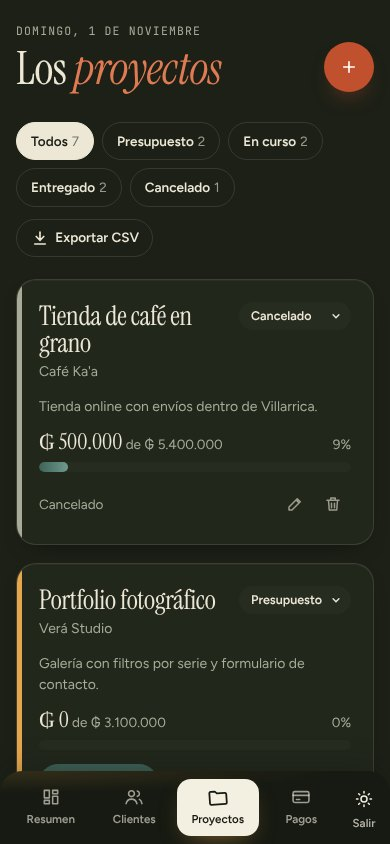
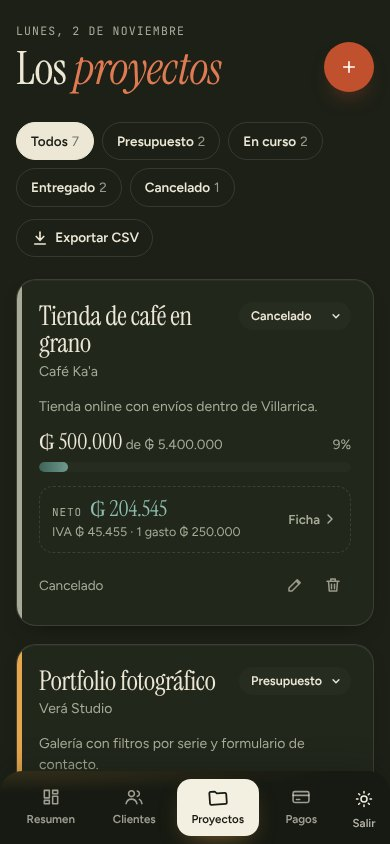
README y guía: IVA, gastos, facturas, pendientes, historial y capturas nuevas
Claude-Session: https://claude.ai/code/session_01D6wwq4ndBdsuxuySeTTfX8

diff --git a/README.md b/README.md
@@ -9,12 +9,16 @@ API REST para gestionar los clientes, proyectos y pagos de Pyahu Labs, con un pa
 - **Usuarios:** registro e inicio de sesión. Las contraseñas se guardan con bcrypt y el login devuelve un token JWT que dura 8 horas. El registro está **cerrado**: solo se puede crear el primer usuario (ver [Registro cerrado](#registro-cerrado)).
 - **Clientes:** CRUD completo, con RUC/CI y datos de contacto.
 - **Proyectos:** estado (presupuesto, en curso, entregado, cancelado), fecha de entrega opcional, edición completa y saldo pendiente calculado.
-- **Pagos:** registrar, editar y borrar, con transacción y bloqueo de fila, para no cobrar nunca más que el saldo del proyecto.
-- **Resumen:** total cobrado, total pendiente, lo que queda en presupuestos y lo cobrado mes por mes.
+- **IVA, gastos y neto:** cada proyecto tiene su tasa de IVA (10 %, 5 % o sin IVA, incluida en el monto, como se cotiza en Paraguay) y sus gastos (dominios, hosting, licencias, trabajo tercerizado). La API calcula el neto: lo que le queda al estudio.
+- **Pagos:** registrar, editar y borrar, con transacción y bloqueo de fila, para no cobrar nunca más que el saldo del proyecto. Cada pago marca si ya se le dio factura al cliente, con el número.
+- **Pendientes e historial:** una lista de lo que le falta a cada proyecto, para tildar, y un historial con notas escritas a mano. Los cambios de estado se anotan solos, con el motivo (por ejemplo, por qué se canceló).
+- **Resumen:** total cobrado, total pendiente, lo que queda en presupuestos, el neto de lo cobrado (sin IVA ni gastos), lo cobrado sin factura y lo cobrado mes por mes.
 - **Seguridad:** límite de intentos de login (429 después de 8 fallidos en 15 minutos) y headers de seguridad con helmet.
 - **Validación:** cada campo se revisa antes de llegar a la base (tipos, formatos, largos y fechas reales).
-- **Panel web:** HTML, CSS y JavaScript sin librerías, con la identidad visual de Pyahu Labs y animaciones. Incluye un gráfico de cobros por mes, las próximas entregas, exportar a CSV (se abre en Excel), modo oscuro y se puede instalar como app en el celu.
-- **Tests:** 16 tests automáticos con `npm test`, sobre una base aparte.
+- **Panel web:** HTML, CSS y JavaScript sin librerías, con la identidad visual de Pyahu Labs y animaciones. Cada proyecto tiene su **ficha** con cuentas, pagos, gastos, pendientes e historial, y un botón para pedir el saldo por WhatsApp. Incluye un gráfico de cobros por mes, las próximas entregas, "Para hacer", cuánto debe cada cliente, exportar a CSV (se abre en Excel), modo oscuro y se puede instalar como app en el celu.
+- **Tests:** 18 tests automáticos con `npm test`, sobre una base aparte.
+
+![Ficha de un proyecto: cuentas, pagos con factura, gastos, pendientes e historial](docs/capturas/ficha.jpg)
 
 ## Tecnologías
 
@@ -55,6 +59,7 @@ pyahu-api/
     ├── server.js           # arranca el servidor
     ├── app.js              # middlewares, rutas y manejo de errores
     ├── db.js               # pool de conexiones a MySQL
+    ├── cuentas.js          # IVA incluido y neto de cada proyecto
     ├── middleware/
     │   ├── auth.js         # exige un token válido
     │   ├── limiteIntentos.js  # frena a quien prueba contraseñas
@@ -64,6 +69,9 @@ pyahu-api/
         ├── clientes.js
         ├── proyectos.js
         ├── pagos.js
+        ├── gastos.js
+        ├── tareas.js       # pendientes de cada proyecto
+        ├── notas.js        # historial de cada proyecto
         └── resumen.js
 ```
 
@@ -124,7 +132,19 @@ El panel se usa igual que en la PC. Lo que **no** vas a poder hacer así es inst
 npm test
 ```
 
-Corre 16 tests (validaciones, login, registro cerrado, clientes, proyectos, pagos y resumen) contra una base **aparte**, `pyahu_test`, que se borra y se vuelve a crear en cada corrida. Tus datos de la base `pyahu` no se tocan. Usa el mismo usuario de MySQL del `.env`.
+Corre 18 tests (validaciones, login, registro cerrado, clientes, proyectos, pagos, IVA y gastos, facturas, pendientes, historial y resumen) contra una base **aparte**, `pyahu_test`, que se borra y se vuelve a crear en cada corrida. Tus datos de la base `pyahu` no se tocan. Usa el mismo usuario de MySQL del `.env`.
+
+### IVA y neto
+
+En Paraguay los precios se dan con el IVA **incluido**, así que `monto_total` es lo que paga el cliente. Con IVA 10 %, el IVA es el total dividido 11: de ₲ 1.100.000, ₲ 100.000 son IVA. El neto de un proyecto es:
+
+```
+neto = monto_total − IVA incluido − gastos
+```
+
+Si el proyecto se cancela, ya no se va a cobrar el total, así que el neto se calcula sobre lo que efectivamente se cobró. En el resumen, `neto_cobrado` es lo cobrado menos su IVA y menos todos los gastos: la plata que de verdad le queda al estudio.
+
+> Es una cuenta para tener una idea clara de cuánto ganás. Para la liquidación del IVA ante la DNIT, seguí lo que te indique tu contador.
 
 ## Endpoints
 
@@ -138,17 +158,27 @@ Todas las rutas, salvo `/auth` y `/estado`, requieren el header `Authorization: 
 | POST | `/auth/login` | Devuelve `{ token }`. 429 después de 8 intentos fallidos |
 | GET | `/clientes` | Listar clientes |
 | POST | `/clientes` | Crear (`nombre`; opcionales `email`, `telefono`, `ruc_ci`) |
-| GET, PUT, DELETE | `/clientes/:id` | Ver, editar o borrar. Borrar un cliente borra sus proyectos y pagos |
-| GET | `/proyectos` | Listar, con `cliente`, `pagado` y `saldo` |
-| POST | `/proyectos` | Crear (`cliente_id`, `nombre`; opcionales `descripcion`, `estado`, `monto_total`, `fecha_entrega`) |
-| PUT | `/proyectos/:id` | Editar todo el proyecto (`estado` y `monto_total` obligatorios). El monto total no puede quedar por debajo de lo ya cobrado |
-| PATCH | `/proyectos/:id/estado` | Cambiar solo el estado |
-| DELETE | `/proyectos/:id` | Borrar el proyecto y sus pagos |
+| GET, PUT, DELETE | `/clientes/:id` | Ver, editar o borrar. Borrar un cliente borra sus proyectos y todo lo de ellos |
+| GET | `/proyectos` | Listar, con `cliente`, `cliente_telefono`, `pagado`, `saldo`, `iva`, `gastos`, `neto`, `sin_facturar`, `tareas` y `tareas_hechas` |
+| POST | `/proyectos` | Crear (`cliente_id`, `nombre`; opcionales `descripcion`, `estado`, `monto_total`, `tasa_iva` 10/5/0, `fecha_entrega`) |
+| PUT | `/proyectos/:id` | Editar todo el proyecto (`estado`, `monto_total` y `tasa_iva` obligatorios). El monto total no puede quedar por debajo de lo ya cobrado. Si cambia el estado, queda en el historial |
+| PATCH | `/proyectos/:id/estado` | Cambiar solo el estado (`estado`; opcional `nota` con el motivo, que queda en el historial) |
+| DELETE | `/proyectos/:id` | Borrar el proyecto con sus pagos, gastos, pendientes e historial |
 | GET | `/pagos` | Listar (filtro opcional `?proyecto_id=`) |
-| POST | `/pagos` | Registrar (`proyecto_id`, `monto`, `fecha` AAAA-MM-DD; opcionales `metodo`, `nota`) |
-| PUT | `/pagos/:id` | Editar (`monto`, `fecha`, `metodo`; opcional `nota`). El proyecto no cambia y el total cobrado no puede pasar el monto del proyecto |
+| POST | `/pagos` | Registrar (`proyecto_id`, `monto`, `fecha` AAAA-MM-DD; opcionales `metodo`, `nota`, `facturado` true/false, `factura_numero`) |
+| PUT | `/pagos/:id` | Editar (`monto`, `fecha`, `metodo`, `facturado`; opcionales `nota`, `factura_numero`). El proyecto no cambia y el total cobrado no puede pasar el monto del proyecto |
+| PATCH | `/pagos/:id/factura` | Marcar o desmarcar la factura (`facturado`; opcional `factura_numero`) |
 | DELETE | `/pagos/:id` | Borrar un pago: el saldo del proyecto vuelve a subir |
-| GET | `/resumen` | Totales cobrado, pendiente y presupuestado, y detalle por estado |
+| GET | `/gastos` | Listar (filtro opcional `?proyecto_id=`) |
+| POST | `/gastos` | Cargar (`proyecto_id`, `concepto`, `monto`, `fecha`; opcional `categoria`: dominio, hosting, software, tercerizado u otro) |
+| PUT, DELETE | `/gastos/:id` | Editar (`concepto`, `categoria`, `monto`, `fecha`) o borrar |
+| GET | `/tareas` | Pendientes (filtro opcional `?proyecto_id=`) |
+| POST | `/tareas` | Agregar un pendiente (`proyecto_id`, `texto`) |
+| PUT, DELETE | `/tareas/:id` | Editar o tildar (`texto`, `hecha` true/false) o borrar |
+| GET | `/notas` | Historial, lo más nuevo primero (filtro opcional `?proyecto_id=`). `tipo` es `nota` o `estado` y `creada_en` viene en hora UTC (ISO) |
+| POST | `/notas` | Escribir una nota (`proyecto_id`, `texto` de hasta 2000 caracteres) |
+| PUT, DELETE | `/notas/:id` | Editar el texto o borrar |
+| GET | `/resumen` | Totales cobrado, pendiente y presupuestado, IVA de lo cobrado, gastos, neto, lo cobrado sin factura y detalle por estado |
 | GET | `/resumen/mensual` | Cobrado por mes (`?meses=` de 1 a 36, 12 por defecto). Los meses sin pagos vienen con 0 |
 
 ### Respuestas de error
@@ -193,7 +223,7 @@ En [docs/PUBLICAR.md](docs/PUBLICAR.md) hay una guía paso a paso para subirla g
 
 ## Más capturas
 
-| Proyectos | Pagos | Registrar un pago |
+| Proyectos | Pagos | Registrar un pago con factura |
 |---|---|---|
 | ![Proyectos](docs/capturas/proyectos.jpg) | ![Pagos](docs/capturas/pagos.jpg) | ![Registrar pago](docs/capturas/modal-pago.jpg) |
 
@@ -201,9 +231,9 @@ En [docs/PUBLICAR.md](docs/PUBLICAR.md) hay una guía paso a paso para subirla g
 |---|---|---|
 | ![Modo oscuro](docs/capturas/oscuro.jpg) | ![Clientes](docs/capturas/clientes.jpg) | ![Acceso](docs/capturas/acceso.jpg) |
 
-| Celular | Celular, modo oscuro |
-|---|---|
-| ![Celular](docs/capturas/movil.jpg) | ![Celular en modo oscuro](docs/capturas/movil-oscuro.jpg) |
+| Celular | Ficha en el celular | Celular, modo oscuro |
+|---|---|---|
+| ![Celular](docs/capturas/movil.jpg) | ![Ficha en el celular](docs/capturas/movil-ficha.jpg) | ![Celular en modo oscuro](docs/capturas/movil-oscuro.jpg) |
 
 Las capturas se sacan con [Playwright](https://playwright.dev/) manejando Chrome, con los datos de `npm run demo`.
 

diff --git a/docs/PUBLICAR.md b/docs/PUBLICAR.md
@@ -58,7 +58,7 @@ $env:DB_SSL_CA = (Get-Content ca.pem) -join '\n'
 npm run migrar
 ```
 
-Tiene que decir `Aplicada: 001_fecha_entrega.sql`. **Cerrá esa ventana de PowerShell** al terminar: así esas variables se olvidan y tu PC vuelve a usar el MySQL local.
+Tiene que decir `Aplicada:` con cada archivo de la carpeta `migraciones/` (`001_fecha_entrega.sql`, `002_iva_y_gastos.sql` y `003_facturas_pendientes_y_notas.sql`). **Cerrá esa ventana de PowerShell** al terminar: así esas variables se olvidan y tu PC vuelve a usar el MySQL local.
 
 ## 4. Preparar el certificado en una línea
 
